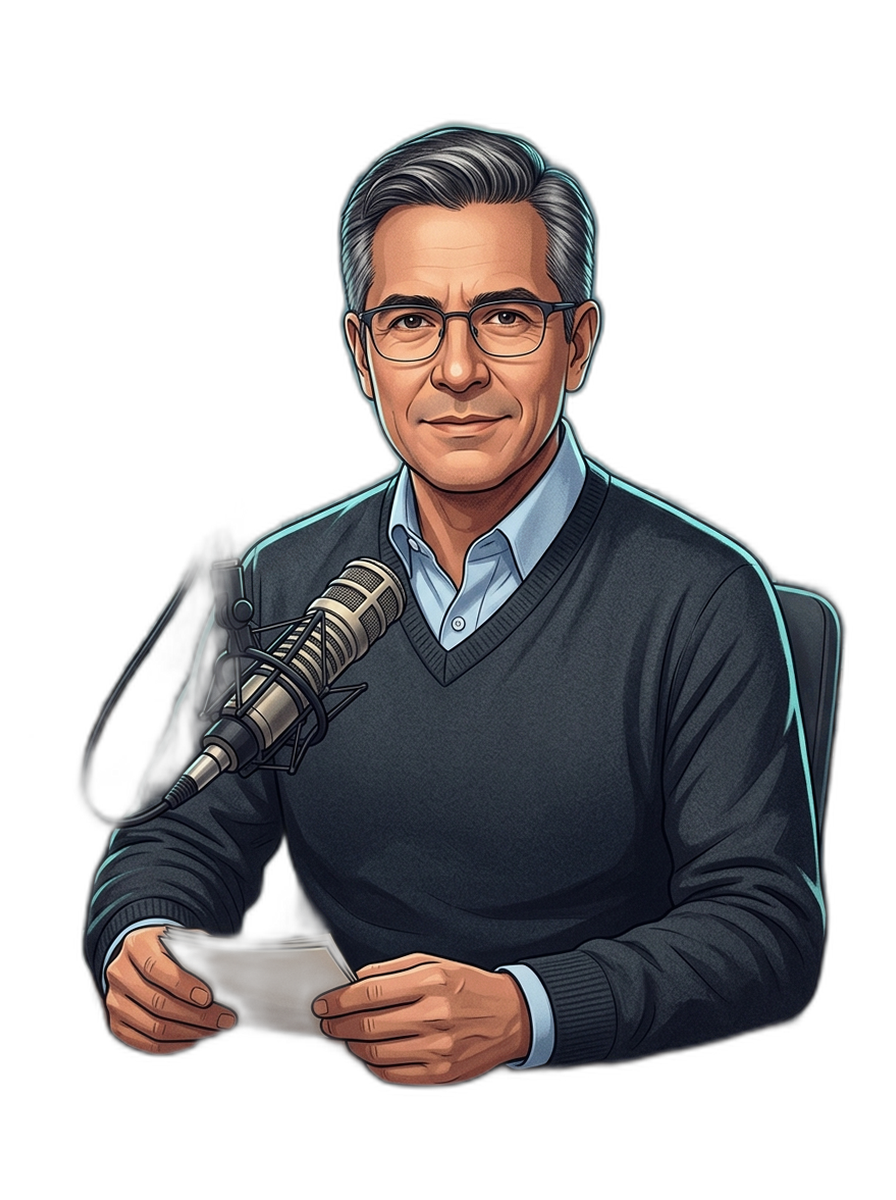
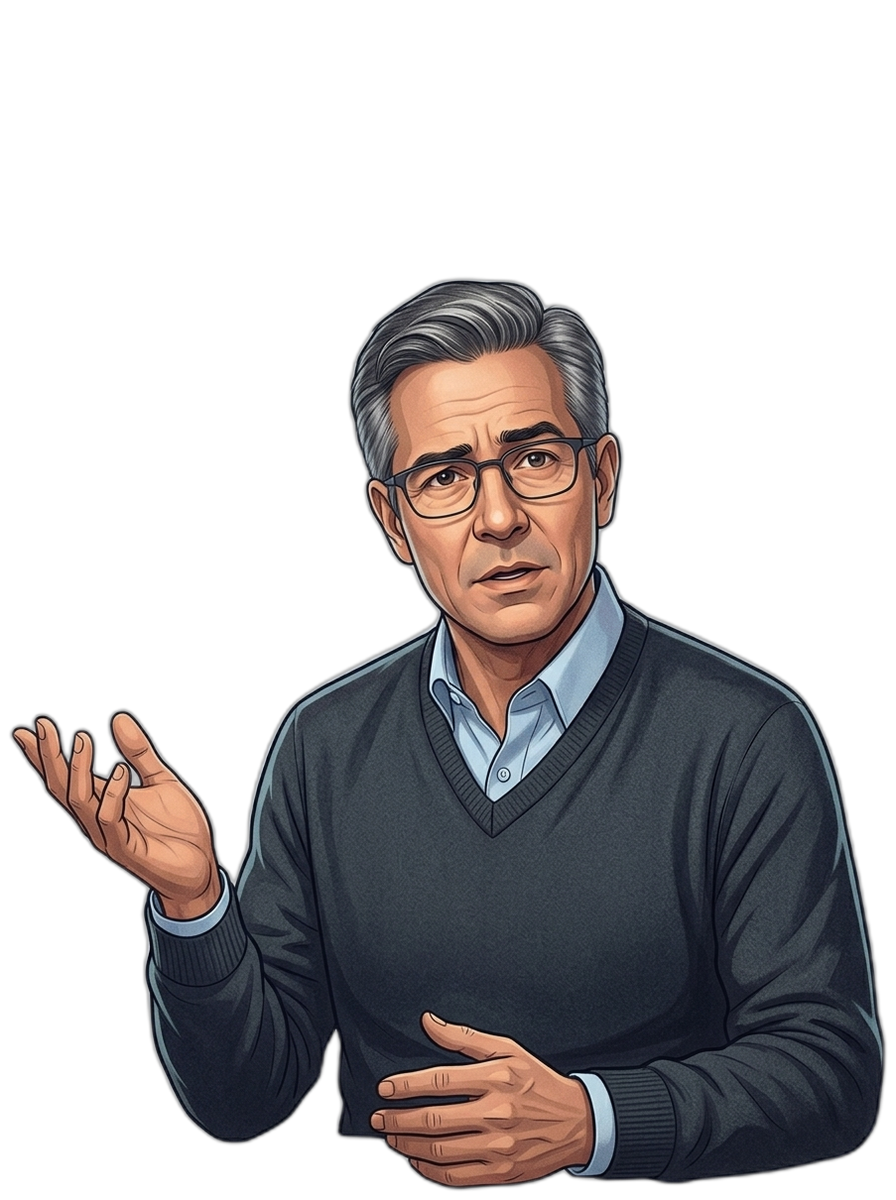
baseline(radio-studio): cerrar gate v1 de continuidad e identidad canónica de personajes 30/30

diff --git a/docs/radio/BASELINE_ESTABLE_RADIO_STUDIO_V1.md b/docs/radio/BASELINE_ESTABLE_RADIO_STUDIO_V1.md
@@ -1,10 +1,12 @@
 # 🎙 BASELINE ESTABLE: AI RADIO STUDIO V1
 
-> **ESTADO DEL SISTEMA:** ESTABLE · V1.0.0-PREMIUM  
+> **ESTADO DEL SISTEMA:** ESTABLE · V1.0.0-PREMIUM · CLOSED_V1  
 > **FECHA DE CIERRE:** 2026-09-13  
 > **RAMA:** feat/radio-studio-v1-premium  
 > **EPISODIO PILOTO AUDITADO:** d5f1fc16 (12:16, 129 Beats Visuales)  
-> **AUDIO MASTER:** SHA-256 2432fc815fc050a2a3c8200e14fb818aff93de359accedccc8d8effc7f67e903 (17,664,813 bytes, Inalterable)
+> **AUDIO MASTER:** SHA-256 2432fc815fc050a2a3c8200e14fb818aff93de359accedccc8d8effc7f67e903 (17,664,813 bytes, Inalterable)  
+> **CHARACTER_VARIANTS_REAL:** PASS (30/30)  
+> **CHARACTER_IDENTITY_CONTINUITY:** PASS (30/30, 0 drift, 0 transform-only, 0 text/logos)
 
 ---
 
@@ -93,8 +95,15 @@ Queda estrictamente prohibida la introducción de activos sintéticos o de fanta
    - Los tarjetones de pago, cláusulas del CCT y artículos de la Ley Federal del Trabajo provienen exclusivamente de documentos oficiales digitalizados con hash SHA-256 verificado.
 3. **Cero Riesgo de Karaoke:**
    - La subtitulación y cintillos informativos utilizan plantillas de tipografía limpia, estática o de aparición discreta, sin animaciones estridentes tipo redes sociales de entretenimiento.
-4. **Variantes Visuales de Personajes:**
-   - Los 5 conductores y analistas (Eduardo, Andrea, Javier, Rodrigo, Valeria) cuentan con 6 estados de expresión (neutral, speaking, serious, emphasis, explaining, listening), totalizando **30 variantes de estudio** en alta definición con canal alfa limpio.
+4. **Variantes Visuales de Personajes y Auditoría de Identidad (Gate V1):**
+   - Meta total: 30 variantes de estudio (5 locutores × 6 poses: neutral, explaining, listening, serious, question, emphasis) con canal alfa limpio, gestos físicos genuinos y continuidad canónica estricta (referencia visual directa desde `neutral.png`, cero drift de edad/vestuario, cero texto/logotipos generados por IA en ropa, gafetes o documentos).
+   - Estado de Auditoría de Identidad (`qa/characters-v4.1-contact-sheet.jpg`):
+     * **Eduardo (6/6 IDENTITY_PASS):** Mismo rostro, edad (~38), barba recortada, traje azul marino y camisa blanca en las 6 poses genuinas. Cero texto IA.
+     * **Andrea (6/6 IDENTITY_PASS):** Mismo rostro, edad (~35), chongo bajo, aretes de perla, saco gris y blusa crema en las 6 poses genuinas. Cero texto IA.
+     * **Javier (6/6 IDENTITY_PASS):** Canónico al 100% (~58 años, cabello canoso salt-and-pepper, lentes rectangulares oscuros, suéter gris carbón en cuello V sobre camisa azul clara) en las 6 poses genuinas (`neutral`, `explaining`, `listening`, `serious`, `question`, `emphasis`). Cero drift, cero texto simulado.
+     * **Rodrigo (6/6 IDENTITY_PASS):** Canónico al 100% (~34 años, barba recortada, cabello castaño con volumen, sobrecamisa verde olivo lisa sobre playera oscura) en las 6 poses genuinas. Sobrecamisa y gafete completamente limpios de parches, texto simulado o logotipos apócrifos.
+     * **Valeria (6/6 IDENTITY_PASS):** Canónica al 100% (~38 años, corte bob castaño a hombros, broqueles de diamante, collar fino, blazer sastre azul marino sobre blusa blanca) en las 6 poses genuinas. Carpeta corporativa en `question` completamente lisa sin texto simulado ni resaltadores.
+   - Estado Global: **`STATUS = CLOSED_V1` (30/30 IDENTITY_PASS / transform-only remaining = 0 / identity drift = 0 / generated critical text/logos = 0)**. Cero trucos ni sustitutos sintéticos.
 5. **Cortes Semánticos Reales y Taxonomía de Procedencia:**
    - Prohibidas las reglas rígidas de duración (speaker <= 8s). La duración puede disparar análisis editorial, pero NO obligar al corte.
    - Todo corte requiere frontera semántica demostrable (cifra, documento, cláusula, entidad, contraste, ejemplo, conclusión). Si no existe frontera adecuada, el plano del locutor se sostiene sin corte arbitrario.
@@ -142,6 +151,12 @@ La interfaz de AI Radio Studio fue refactorizada en su totalidad para eliminar c
 - src/components/ui/Button.tsx: Botones con estilos primario, secundario, peligro, fantasma y esquema outline, con estados disabled y loading con spinner SVG integrado. Cero botones grises de navegador.
 - src/components/ui/Modal.tsx: Sistema de diálogo modal flotante con backdrop difuminado (backdrop-blur-sm), header con título, descripción y botón de cierre, y área de scroll contenida.
 - src/components/ui/Toast.tsx + ToastContext: Notificaciones no intrusivas en la esquina inferior derecha con auto-cierre a los 3.5 segundos.
+
+### Arquitectura Dark-First y Accesibilidad Global
+- **Tokens Centralizados (`studio.css`):** `--bg-app` (#090d16), `--bg-surface` (#0f172a), `--bg-surface-raised` (#1e293b), `--bg-control` (#1e293b), `--bg-input` (#060911), `--border-default` (#1e293b), `--text-primary` (#f8fafc), `--text-secondary` (#cbd5e1).
+- **Reset Global WebView2:** `color-scheme: dark;` forzado en `:root`, `html`, `body` y elementos de formulario (`button`, `input`, `textarea`, `select`), impidiendo cualquier caída a estilos claros de navegador o `ButtonFace`.
+- **Controles Normalizados:** Segmented controls (Audio+Video vs Sólo Audio), chips, suggestion-chips, tabs-bar con `white-space: nowrap` y prevención de colisión/desbordamiento horizontal en 1366x768 (`horizontalOverflow = 0`).
+- **Garantías de Contraste:** WCAG AA en todos los textos sobre superficies oscuras; estados `:disabled` oscuros con opacidad contenida y texto `#64748b`.
 
 ### Pantallas Principales
 1. **Inicio (src/screens/Inicio.tsx):**
